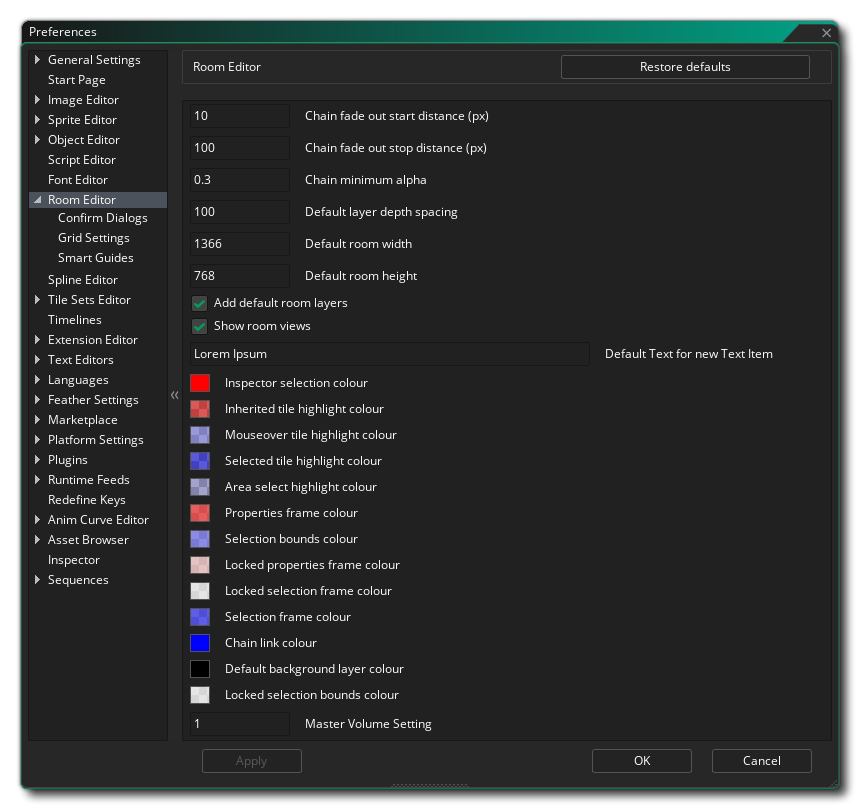
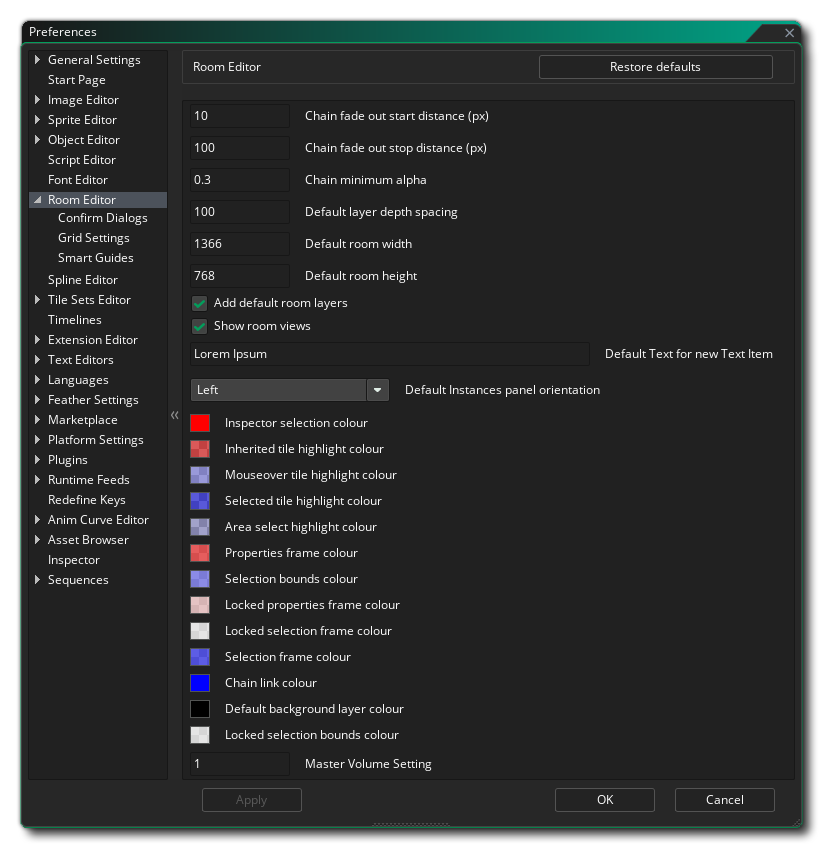
docs(feature): Documented the new Element List in Room Editors https://github.com/YoYoGames/YoYoStudio/issues/10025

diff --git a/Manual/contents/The_Asset_Editors/Room_Properties/Layer_Properties.htm b/Manual/contents/The_Asset_Editors/Room_Properties/Layer_Properties.htm
@@ -38,15 +38,16 @@
   </div>
   <p><img alt="Instance Layer Icon" class="icon" src="../../assets/Images/Icons/Icon_Instance.png" style="margin-left: 24px;" /><a class="dropspot" data-rhwidget="DropSpot" data-target="drop-down2" href="#">Instances</a></p>
   <div class="droptext" data-targetname="drop-down2">
-    <p class="dropspot">You can add a new instance layer by clicking on the <img alt="Instance Layer Icon" class="icon" height="24" src="../../assets/Images/Icons/Icon_Instance.png" width="24" /> button. This will add the new layer, and then open up the instance properties window:</p>
-    <p class="dropspot"><img alt="Room Layer Instance properties" class="center" src="../../assets/Images/Asset_Editors/Editor_Room_Instances.png" />This window simply shows a list of all the instances that are currently on the layer. You can add more instances to a layer by opening up <a data-xref="{title}" href="../../Introduction/The_Asset_Browser.htm">The Asset Browser</a> and then dragging objects from there into the room, or alternatively you can select an instance from the Asset Browser and then press and hold <img alt="Alt Icon" class="icon" height="20" src="../../assets/Images/Icons/Icon_Alt.png" width="55" /> to preview the resource &quot;in-situ&quot;, and if you additionally click the left mouse button <img alt="LMB Icon" class="icon" src="../../assets/Images/Icons/Icon_LMB.png" /> you can add the instance and even &quot;paint&quot; it into the room layer by maintaining the button pressed and moving the mouse.</p>
-    <p class="dropspot">The layer list can be ordered by clicking <img alt="LMB Icon" class="icon" src="../../assets/Images/Icons/Icon_LMB.png" /> and dragging an instance in the list to the position required, but it is worth noting that this is purely for organisational purposes within the Room Editor and if you want to set a specific creation order, please use the <strong>Creation Order Window</strong>, which can be opened from the <a data-xref="{title}" href="Room_Properties.htm">Room Properties</a> window, or from the <a href="../Rooms.htm">Room context menu</a>.</p>
+    <p class="dropspot">You can add a new instance layer by clicking on the <img alt="Instance Layer Icon" class="icon" height="24" src="../../assets/Images/Icons/Icon_Instance.png" width="24" /> button. This will add the new layer, open the <a data-xref="{text}" href="../Rooms.htm#p">Element List</a> on the side and display layer properties in <a data-xref="{title}" href="../../IDE_Tools/The_Inspector.htm">The Inspector</a>:</p>
+    <p class="dropspot"><img alt="Room Layer Instance properties" class="center" src="../../assets/Images/Asset_Editors/Editor_Room_InstanceLayer.png" />The sidebar shows a list of all the instances that are currently on the layer. See: <a data-xref="{text}" href="../Rooms.htm#p">Element List</a></p>
+    <p class="dropspot">You can add more instances to a layer by opening up <a data-xref="{title}" href="../../Introduction/The_Asset_Browser.htm">The Asset Browser</a> and then dragging objects from there into the room, or alternatively you can select an instance from the Asset Browser and then press and hold <img alt="Alt Icon" class="icon" height="20" src="../../assets/Images/Icons/Icon_Alt.png" width="55" /> to preview the resource &quot;in-situ&quot;, and if you additionally click the left mouse button <img alt="LMB Icon" class="icon" src="../../assets/Images/Icons/Icon_LMB.png" /> you can add the instance and even &quot;paint&quot; it into the room layer by maintaining the button pressed and moving the mouse.</p>
     <p class="dropspot">Double-clicking <img alt="LMB Icon" class="icon" src="../../assets/Images/Icons/Icon_LMB.png" /> on any instance - either in the Room Editor itself or in the properties list - will open a new window to let you modify aspects of that single unique instance:</p>
-    <p class="dropspot"><img alt="Room Instance properties" class="center" src="../../assets/Images/Asset_Editors/Editor_Room_InstanceProperties.png" />By default the instance will have a name like <span class="inline2">inst_38B0BFF</span>, but this can be changed to anything you want as long as the name uses only alpha-numeric characters and the under-bar <span class="inline2">_</span> (and no spaces). However it&#39;s worth noting that the name given here (whether it&#39;s one you give, or the default one that the IDE gives) is considered a <a class="glossterm" data-glossterm="constant" href="#">constant</a> and so <strong>must be <em>unique </em>to the instance</strong>. This also means that it can be used in code in your game to identify the instance, but only if you are in the same room as the instance.</p>
+    <p class="dropspot"><img alt="Room Instance properties" class="center" src="../../assets/Images/Asset_Editors/Editor_Room_InstanceProperties.png" />You can also edit an instance by selecting it and modifying its properties in <a data-xref="{title}" href="../../IDE_Tools/The_Inspector.htm">The Inspector</a>.</p>
+    <p class="dropspot">By default the instance will have a name like <span class="inline2">inst_38B0BFF</span>, but this can be changed to anything you want as long as the name uses only alpha-numeric characters and the under-bar <span class="inline2">_</span> (and no spaces). However it&#39;s worth noting that the name given here (whether it&#39;s one you give, or the default one that the IDE gives) is considered a <a class="glossterm" data-glossterm="constant" href="#">constant</a> and so <strong>must be <em>unique </em>to the instance</strong>. This also means that it can be used in code in your game to identify the instance, but only if you are in the same room as the instance.</p>
     <div data-conref="../../assets/snippets/Note_Instance_Name_Stores_Handle_InGame.hts"> </div>
     <p class="dropspot">Below the instance name you have buttons to set whether the instance is to inherit from the parent room, change the object that you want it to be an instance of or even open up <a data-xref="{title}" href="../Objects.htm">The Object Editor</a>, should you wish to change anything there. There is a button to check and edit variables through the <a data-xref="{title}" href="../Object_Properties/Object_Variables.htm">Object Variables</a> window and you can change the initial characteristics of this instance too, setting a colour to blend it with (white by default), or rotating and flipping it. You can also scale the instance along either or both the axis, and set its position within the room, as well as the image speed and initial frame for the sprite to use.</p>
     <p class="dropspot">Finally you can give the instance some creation code which will run directly after the object creation event code, and is unique to this instance (so you can, say, set a variable in the object which all instance will have then modify it in the creation code so that it&#39;s a unique value for one instance). Clicking this will chain a <a href="../Scripts.htm">script window</a> to the instance where you can add any functions or modify any variables and this code will be run directly after the instance has been created and the instance <a href="../Object_Properties/Event_Order.htm">Create Event</a> has been run. Note that you can toggle inheritance of creation code on or off <em>independently </em>of the instance inheritance.</p>
-    <p class="dropspot">It is worth noting that each instance on a layer is automatically flagged for exporting when the game is made. However, especially when working with inheritance, it may be that you don&#39;t <em>want </em>specific instances to be added to the room in the final game (or you may have a debug instance in every room and simply want to exclude it from the final game). If that is the case, then simply un-checking the &quot;<strong>Export</strong>&quot; checkbox to the left of the instance in the list will prevent it from being exported as part of the executable. It is important to note, however, that if you have any code that references the instance, <strong>then the game will not run correctly</strong>, so use this feature with care.</p>
+    <p class="dropspot">It is worth noting that each instance on a layer is automatically flagged for exporting when the game is made. However, especially when working with inheritance, it may be that you don&#39;t <em>want </em>specific instances to be added to the room in the final game (or you may have a debug instance in every room and simply want to exclude it from the final game). If that is the case, then simply un-checking the <img class="icon" src="../../assets/Images/Icons/Icon_Tick_Check.png" /> checkbox to the left of the instance in the Element List will prevent it from being exported as part of the executable. It is important to note, however, that if you have any code that references the instance, <strong>then the game will not run correctly</strong>, so use this feature with care.</p>
     <p class="dropspot"> </p>
   </div>
   <p><img alt="Tile map Layer Icon" class="icon" src="../../assets/Images/Icons/Icon_Tilemap.png" style="margin-left: 24px;" /><a class="dropspot" data-rhwidget="DropSpot" data-target="drop-down3" href="#">Tiles</a></p>
@@ -126,8 +127,8 @@
   </div>
   <p><img alt="Asset Layer Icon" class="icon" src="../../assets/Images/Icons/Icon_Assets.png" style="margin-left: 24px;" /><a class="dropspot" data-rhwidget="DropSpot" data-target="drop-down6" href="#">Assets</a></p>
   <div class="droptext" data-targetname="drop-down6">
-    <p class="dropspot">You can add a new asset layer by clicking on the <img alt="Asset Layer Icon" class="icon" height="24" src="../../assets/Images/Icons/Icon_Assets.png" width="24" /> button. This will add the new layer, and then open up the asset layer properties window:</p>
-    <p class="dropspot"><img alt="Room Layer Asset properties" class="center" src="../../assets/Images/Asset_Editors/Editor_Room_LayerAssetProperties.png" />An asset layer contains graphical assets (sprites, sequences, text and particle systems) that are placed into the room independently of instances, and you can place them by either dragging them in from <a data-xref="{title}" href="../../Introduction/The_Asset_Browser.htm">The Asset Browser</a> or by selecting the one you want in the Asset Browser and then using <img alt="Alt Icon" class="icon" height="20" src="../../assets/Images/Icons/Icon_Alt.png" width="55" /> + <img alt="LMB Icon" class="icon" src="../../assets/Images/Icons/Icon_LMB.png" /> to &quot;paint&quot; them.</p>
+    <p class="dropspot">You can add a new asset layer by clicking on the <img alt="Asset Layer Icon" class="icon" height="24" src="../../assets/Images/Icons/Icon_Assets.png" width="24" /> button. This will add the new layer, open the <a data-xref="{text}" href="../Rooms.htm#p">Element List</a> on the side and display layer properties in <a data-xref="{title}" href="../../IDE_Tools/The_Inspector.htm">The Inspector</a>:</p>
+    <p class="dropspot"><img alt="Room Layer Asset properties" class="center" src="../../assets/Images/Asset_Editors/Editor_Room_AssetLayer.png" style="cursor: nwse-resize;" />An asset layer contains graphical assets (sprites, sequences, text and particle systems) that are placed into the room independently of instances, and you can place them by either dragging them in from <a data-xref="{title}" href="../../Introduction/The_Asset_Browser.htm">The Asset Browser</a> or by selecting the one you want in the Asset Browser and then using <img alt="Alt Icon" class="icon" height="20" src="../../assets/Images/Icons/Icon_Alt.png" width="55" /> + <img alt="LMB Icon" class="icon" src="../../assets/Images/Icons/Icon_LMB.png" /> to &quot;paint&quot; them.</p>
     <p class="dropspot">While placing assets on the asset layer they will snap to the grid snap values set at the top of the Room Editor for the grid, but if you want to place them freehand, simply switch off the grid or use the keys <img alt="Control Icon" class="icon" height="20" src="../../assets/Images/Icons/Icon_Ctrl.png" width="55" /> / <img alt="CMD Icon" class="icon" height="20" src="../../assets/Images/Icons/Icon_Cmd.png" width="55" /> and the left mouse button <img alt="LMB Icon" class="icon" src="../../assets/Images/Icons/Icon_LMB.png" />. While those keys are held down, you will be free to place the asset anywhere, without it snapping to the grid resolution.</p>
     <h3>Asset Types</h3>
     <p class="dropspot">Sprite assets are similar to tiles, only they can be fully animated - if the sprite used has sub-images they will be shown - without the restrictions that are in place for tiles, ie: they aren&#39;t forced to a grid and animations can be any length and speed.</p>
@@ -138,12 +139,12 @@
     <p class="note"><span data-conref="../../assets/snippets/Tag_note.hts"> </span> Text elements can be modified at runtime using <a href="../../GameMaker_Language/GML_Reference/Asset_Management/Rooms/Text_Functions/Text_Elements.htm">Text Element Functions</a>.</p>
     <h3>Asset Properties</h3>
     <p class="dropspot">Once you place an asset in the room, you have a certain amount of control over how it looks by double clicking <img alt="LMB Icon" class="icon" src="../../assets/Images/Icons/Icon_LMB.png" /> on it to open the asset properties window:</p>
-    <p class="dropspot"><img alt="Room Asset properties" class="center" src="../../assets/Images/Asset_Editors/Editor_Room_AssetProperties.png" />These properties will also appear in <a data-xref="{title}" href="../../IDE_Tools/The_Inspector.htm">The Inspector</a> window, placed on the left by default.</p>
+    <p class="dropspot"><img alt="Room Asset properties" class="center" src="../../assets/Images/Asset_Editors/Editor_Room_AssetProperties.png" />You can also edit an asset element by selecting it and modifying its properties in <a data-xref="{title}" href="../../IDE_Tools/The_Inspector.htm">The Inspector</a>.</p>
     <p class="dropspot">From here you can give the placed asset (&quot;element&quot;) a unique name, set whether it is to inherit from the parent room, or change the sprite, sequence or particle system that you want it to display.</p>
     <p class="dropspot">For sequences, you can set the animation speed and the initial <a class="glossterm" data-glossterm="playhead" href="#">playhead</a> frame, as well as the colour to blend with it (white by default) and the position in the room. You can change the characteristics of sprite assets too, setting a colour to blend it with (white by default), or rotating and flipping it. You can also scale sprites along either or both the axis, and set their position within the room. If the sprite has sub-images, you can choose the animation speed as well as set the initial frame to be shown.</p>
     <p class="dropspot"><img class="center" src="../../assets/Images/Asset_Editors/Room_Text/Room_text_options.png" />For text, you can change the multi-line string that appears, its colour, rotation, scale, and position, same as a sequence or sprite graphic. Text-specific options can also be edited, such as the <a href="../../GameMaker_Language/GML_Reference/Asset_Management/Rooms/Text_Functions/layer_text_xorigin.htm">origin</a> (which acts as a negative offset), <a href="../../GameMaker_Language/GML_Reference/Asset_Management/Rooms/Text_Functions/layer_text_framew.htm">frame size</a> (only used when wrapping is enabled), <a href="../../GameMaker_Language/GML_Reference/Asset_Management/Rooms/Text_Functions/layer_text_wrap.htm">wrapping</a>, <a href="../../GameMaker_Language/GML_Reference/Asset_Management/Rooms/Text_Functions/layer_text_halign.htm">alignment</a>, <a href="../../GameMaker_Language/GML_Reference/Asset_Management/Rooms/Text_Functions/layer_text_charspacing.htm">character spacing</a> and <a href="../../GameMaker_Language/GML_Reference/Asset_Management/Rooms/Text_Functions/layer_text_linespacing.htm">line spacing</a>. This text functionality is similar to <a data-xref="{title}" href="../Sequence_Properties/Text_in_Sequences.htm">Text in Sequences</a>, refer to that page for more information on text editing behaviour, especially <a data-xref="{text}" href="../Sequence_Properties/Text_in_Sequences.htm#p">Resize Behaviour</a>.</p>
     <p class="dropspot">Finally, for particle systems, you can also set the blend colour and the rotation of the entire particle system.</p>
-    <p class="dropspot">It is worth noting that each asset on the layer is automatically flagged for exporting when the game is made. However, especially when working with <a href="Room_Inheritance.htm">inheritance</a>, it may be that you don&#39;t want specific assets to be added to the room in the final game. If that is the case, then simply un-checking the &quot;<strong>Export</strong>&quot; checkbox to the left of the asset in the layer properties list will prevent it from being exported as part of the executable. It is important to note, however, that if you have any code that references that asset, then the game will not run correctly, so use this feature with care.</p>
+    <p class="dropspot">It is worth noting that each asset on the layer is automatically flagged for exporting when the game is made. However, especially when working with <a href="Room_Inheritance.htm">inheritance</a>, it may be that you don&#39;t want specific assets to be added to the room in the final game. If that is the case, then simply un-checking the <img class="icon" src="../../assets/Images/Icons/Icon_Tick_Check.png" /> checkbox to the left of the asset in the Element List will prevent it from being exported as part of the executable. It is important to note, however, that if you have any code that references that asset, then the game will not run correctly, so use this feature with care.</p>
   </div>
   <p><img src="../../assets/Images/Icons/Icon_FX_Layer.png" style="margin-left: 24px; vertical-align: middle;" /><a class="dropspot" data-rhwidget="DropSpot" data-target="drop-down7" href="#">Filter/Effect</a></p>
   <div class="droptext" data-targetname="drop-down7">

diff --git a/Manual/contents/Quick_Start_Guide/Rooms.htm b/Manual/contents/Quick_Start_Guide/Rooms.htm
@@ -16,13 +16,17 @@
 <body>
   <!--<div class="body-scroll" style="top: 150px;">-->
   <h1>Rooms</h1>
-  <p>All games that you make in <span data-keyref="GameMaker Name">GameMaker</span> need at least one room to run (but can have many, many more) , and a room is just a space where you place instances of the objects that make up your game as well as tiles and any other graphical resources. When you first create a room in the <a href="../Introduction/The_Asset_Browser.htm">Asset Browser</a> you will be presented with a new <a href="../The_Asset_Editors/Rooms.htm"><strong>Room Editor</strong></a> workspace with which to edit its properties, something like this:</p>
+  <p>All games that you make in <span data-keyref="GameMaker Name">GameMaker</span> need at least one room to run (but can have many, many more), and a room is just a space where you place instances of the objects that make up your game as well as tiles and any other graphical resources. When you first create a room in the <a href="../Introduction/The_Asset_Browser.htm">Asset Browser</a> you will be presented with a new <a href="../The_Asset_Editors/Rooms.htm"><strong>Room Editor</strong></a> workspace with which to edit its properties, something like this:</p>
   <p><img alt="The Room Editor" class="center" src="../assets/Images/QS_Guide/QS_RoomEditor.png" style="cursor: nwse-resize;" /></p>
   <p>By default the room tools will be placed on the left, with two main sections:</p>
   <ul class="colour">
-    <li><strong>Layer Editor</strong>: Everything in a room is placed on <em>layers</em>, and there are different layer types that you can choose from (more on this later). Layers are ordered by <em>depth </em>and this depth is what defines the order in which the layer contents will be rendered to the screen when the game runs. Depth ordering is from highest to lowest, so that the lower the depth the nearer the &quot;camera&quot; and the higher the depth the further away. For example, a layer with a depth of -300 will render over a layer with a depth of -100, and a layer with a depth of 1000 will render under everything with a depth less than this. Note that by default, <span data-keyref="GameMaker Name">GameMaker</span> will order layer depths for you according to the position in the Layer Editor, and you can drag around layers using the mouse to re-order them and <span data-keyref="GameMaker Name">GameMaker</span> will re-order the depths to match.</li>
+    <li><strong>Layer Editor</strong>: Everything in a room is placed on <em>layers</em>, and there are different layer types that you can choose from (more on this later). Layers are ordered by <em>depth </em>and this depth is what defines the order in which the layer contents will be rendered to the screen when the game runs. Depth ordering is from highest to lowest, so that the lower the depth the nearer the &quot;camera&quot; and the higher the depth the further away. For example, a layer with a depth of -300 will render over a layer with a depth of -100, and a layer with a depth of 1000 will render under everything with a depth less than this. Note that by default, <span data-keyref="GameMaker Name">GameMaker</span> will order layer depths for you according to the position in the Layer Editor, and you can drag around layers using the mouse to re-order them and <span data-keyref="GameMaker Name">GameMaker</span> will re-order the depths to match.
+      <ul>
+        <li>When an Instance Layer or Asset Layer is selected, the <a data-xref="{text}" href="../The_Asset_Editors/Rooms.htm#p">Element List</a> will appear showing you a list of the instances or assets placed in the layer. In the beginning, as shown in the image above, it will be empty.</li>
+      </ul>
+    </li>
     <li><a href="../IDE_Tools/The_Inspector.htm"><strong>Inspector</strong></a>: When you open a room its properties such as room size and camera view ports are shown here. You can set them here as well.<br />
-      When you click a layer in the Layer Editor its properties, that depend on the layer type, are shown and can be changed here. This window permits you to change those properties and edit how the layer will be <a class="glossterm" data-glossterm="rendered" href="#">rendered</a>.</li>
+      When you click a layer in the Layer Editor, its properties, that depend on the layer type, are shown and can be changed here. This window permits you to change those properties and edit how the layer will be <a class="glossterm" data-glossterm="rendered" href="#">rendered</a>.</li>
   </ul>
   <p>We&#39;ve mentioned that there are different layer types, so let&#39;s just go over what they are and how they can be used when building your games:</p>
   <table class="icons">
@@ -51,6 +55,11 @@
         <td class="icons"><img src="../assets/Images/Icons/Icon_Layer_Asset.png" /></td>
         <td class="icons"><strong>Asset Layer</strong></td>
         <td class="text">Sometimes you want a nice graphical effect but don&#39;t want the overhead of using an instance or don&#39;t need it to do anything other than draw itself. You could use a tile map, but given that tile maps are restricted to using a grid and only a single image per grid cell, they can be a bit restrictive. This is when you would use the asset layer. The asset layer simply takes a sprite asset and draws it using the parameters that you set when you add it into the room. <a href="../The_Asset_Editors/Sprites.htm">Sprites</a> and <a href="../The_Asset_Editors/Sequences.htm">sequences</a> can be added to this layer the same way that instances of objects are added to the instance layer, ie: you click <img alt="LMB Icon" class="icon" src="../assets/Images/Icons/Icon_LMB.png" /> on the sprite/sequence in the asset browser and then drag it into the room editor workspace. You can also drag in <a href="../The_Asset_Editors/Fonts.htm">font assets</a> to create text, and <a href="../The_Asset_Editors/Particle_Systems.htm">particle system assets</a> for showing particle effects at runtime.</td>
+      </tr>
+      <tr>
+        <td class="icons"><img src="../assets/Images/Icons/Icon_FX_Layer.png" /></td>
+        <td class="icons"><strong>Filter/Effect Layer</strong></td>
+        <td class="text">This layer applies a <a href="../The_Asset_Editors/Room_Properties/Filters_and_Effects.htm">filter or effect</a> to all the layers below it. Note that a single-layer effect can be applied to any layer via <a data-xref="{title}" href="../IDE_Tools/The_Inspector.htm">The Inspector</a>.</td>
       </tr>
     </tbody>
   </table>

diff --git a/Manual/contents/The_Asset_Editors/Rooms.htm b/Manual/contents/The_Asset_Editors/Rooms.htm
@@ -71,15 +71,25 @@
     <p class="note"><span data-conref="../assets/snippets/Tag_note.hts"> </span> Layers which are flagged as invisible will <strong>not</strong> be shown when the game is run.</p>
     <p class="dropspot"> </p>
   </div>
-  <p><a class="dropspot" data-rhwidget="DropSpot" data-target="drop-down2" href="#">Layer Properties</a></p>
+  <p><a class="dropspot" data-rhwidget="DropSpot" data-target="drop-down2" href="#">Inspector (Layer Properties)</a></p>
   <div class="droptext" data-targetname="drop-down2">
     <p class="dropspot">The Inspector window will show layer properties depending on the currently selected layer in the Layer Editor.</p>
     <p class="dropspot"><img alt="Room Layer Properties In Full" class="center" src="../assets/Images/Asset_Editors/Editor_Room_LayerProperties.png" /> Each window will have the different properties and lists associated with the currently selected layer type, and you will be able to edit fundamental details for how the layer is displayed and what is actually on the layer. Please see the <a data-xref="{title}" href="Room_Properties/Layer_Properties.htm">Layer Types And Properties</a> page for more details.</p>
     <p class="dropspot"> </p>
   </div>
-  <p><a class="dropspot" data-rhwidget="DropSpot" data-target="drop-down3" href="#">Room Properties</a></p>
+  <p><a class="dropspot" data-rhwidget="DropSpot" data-target="drop-down3" href="#">Inspector (Room Properties)</a></p>
   <div class="droptext" data-targetname="drop-down3">
     <p class="dropspot">When the room asset is selected in the Asset Browser, the Inspector shows all the base properties for the room, like its size, whether it uses physics, or any cameras and viewports it requires. These can be changed here as well. This section is dicussed in more detail on the <a href="Room_Properties/Room_Properties.htm">Room Properties page</a>.</p>
+    <p class="dropspot"> </p>
+  </div>
+  <p id="p"><a class="dropspot" data-rhwidget="DropSpot" data-target="drop-down8" href="#">Element List</a></p>
+  <div class="droptext" data-targetname="drop-down8">
+    <p class="dropspot">The Element List appears when a valid type of layer (i.e. one that holds elements) is selected. This includes Instance Layers that hold Object Instances, and Asset Layers that hold visual assets of various types.</p>
+    <p class="dropspot">This list will show you all the elements present in the selected layer. Each entry in the list contains a <img class="icon" src="../assets/Images/Icons/Icon_Tick_Check.png" /> checkbox that enables/disables that element. It then shows its icon, asset name and the identifier of that element.</p>
+    <p class="dropspot">Clicking on any element in the list will show you its properties in the Inspector:</p>
+    <p class="dropspot"><img class="center" src="../assets/Images/Asset_Editors/Editor_Room_ElementEditing.png" />Elements in this list can be re-ordered by clicking <img alt="LMB Icon" class="icon" src="../assets/Images/Icons/Icon_LMB.png" /> and dragging them to the position required. For instances, this is purely for organisational purposes within the Room Editor and if you want to set a specific creation order, use the <strong>Instance </strong><strong>Creation Order </strong>menu, which can be opened from the <a data-xref="{title}" href="Room_Properties/Room_Properties.htm">Room Properties</a> in the Inspector, or from the <a href="Rooms.htm">Room context menu</a>.</p>
+    <p class="dropspot">At the top of the list, you can filter the list with a search string. This string is checked against both the instance identifiers and the asset names. </p>
+    <p class="dropspot">The <img class="icon" src="../assets/Images/Icons/Icon_ChangeOrientationFull.png" /> menu can be used to detach the list or attach it to any of the four sides of the Room Canvas. You can resize the sidebar by dragging its edge facing the Room Canvas, and clicking on the edge will close the sidebar.</p>
     <p class="dropspot"> </p>
   </div>
   <p><a class="dropspot" data-rhwidget="DropSpot" data-target="drop-down4" href="#">Layer Toolbox</a></p>

diff --git a/Manual/contents/The_Asset_Editors/Room_Properties/Room_Properties.htm b/Manual/contents/The_Asset_Editors/Room_Properties/Room_Properties.htm
@@ -15,7 +15,7 @@
 <body>
   <!--<div class="body-scroll" style="top: 150px;">-->
   <h1><span data-field="title" data-format="default">Room Properties</span></h1>
-  <p><img alt="Room Editor Properties" class="center" src="../../assets/Images/Asset_Editors/Editor_Room_RoomSettings.png" />The <span data-field="title" data-format="default">Room Properties</span> section is where you can set the inheritance toggle for the settings, change options such as persistency, the room&#39;s size and manage viewports. This is visible when you select a room asset in <a data-xref="{title}" href="../../Introduction/The_Asset_Browser.htm">The Asset Browser</a>.</p>
+  <p><img alt="Room Editor Properties" class="center" src="../../assets/Images/Asset_Editors/Editor_Room_RoomSettings.png" />The <span data-field="title" data-format="default">Room Properties</span> section is where you can set the inheritance toggle for the settings, change options such as persistency, the room&#39;s size and manage viewports. This is shown in <a data-xref="{title}" href="../../IDE_Tools/The_Inspector.htm">The Inspector</a> when you select a room asset in <a data-xref="{title}" href="../../Introduction/The_Asset_Browser.htm">The Asset Browser</a>.</p>
   <h2>Persistent</h2>
   <p>Normally, when you leave a room and return to the same room later, that room is reset to its initial settings. This is usually fine for most games but it may not be what you want in, for example, an RPG or any non-linear game, where you want to come and go between rooms and have them be the way you left it the last time. Checking the box labelled <strong>Persistent </strong>will do exactly that. The room status will be remembered and when you return to it later, it will be exactly the same as you left it, with it only being reset to the start state when the game is restarted. Note that there is <em>one </em>exception to this - if you marked certain objects as being persistent, instances of this object will <em>not </em>stay in the room but move to the next room.</p>
   <h2 id="clear_display_buffer">Clear Display Buffer</h2>

diff --git a/Manual/contents/Setting_Up_And_Version_Information/IDE_Preferences/Room_Editor_Preferences.htm b/Manual/contents/Setting_Up_And_Version_Information/IDE_Preferences/Room_Editor_Preferences.htm
@@ -27,6 +27,7 @@
     <li><strong>Add default room layers</strong>: When you create any new room resource, <span data-keyref="GameMaker Name">GameMaker</span> will generate a couple of &quot;base&quot; layers for you - a background layer and an instance layer. You can switch that behaviour off here so that new rooms will have no pre-made layers. This is on by default.</li>
     <li><strong>Show room views</strong>: If you have views active within a room, this is shown by an outline where the view boundaries would be within the room, and the visibility of this area can be toggled using the dedicated button in the editor itself. However you can choose to have view boundaries invisible when you open a room by un-checking this option (the button can still be used to show them again). The default value is on, making view boundaries visible when you open a room.</li>
     <li><strong>Default Text for new Text Item</strong>: The text that is shown when you create a new Text Element in an <a href="../../The_Asset_Editors/Room_Properties/Layer_Properties.htm">Asset Layer</a>.</li>
+    <li><strong>Default Instances panel orientation</strong>: Default orientation for the <a data-xref="{text}" href="../../The_Asset_Editors/Rooms.htm#p">Element List</a> that appears when an Instance Layer or Asset Layer is selected.</li>
     <li><strong>Inspector selection colour</strong>: The colour used for highlighting the item selected in the Inspector <a data-xref="{text}" href="../../IDE_Tools/The_Inspector.htm#h">Multi-Select</a> list.</li>
     <li><strong>Other colour options</strong>: These are related to the different colours that are used throughout the room editor interface, and if you double click on any of the swatches you can edit the colour for that setting.</li>
     <li><strong>Master-volume setting</strong>: The master volume setting for preview playback in the Room Editor, a value between 0 and 1. Default is 1.</li>
